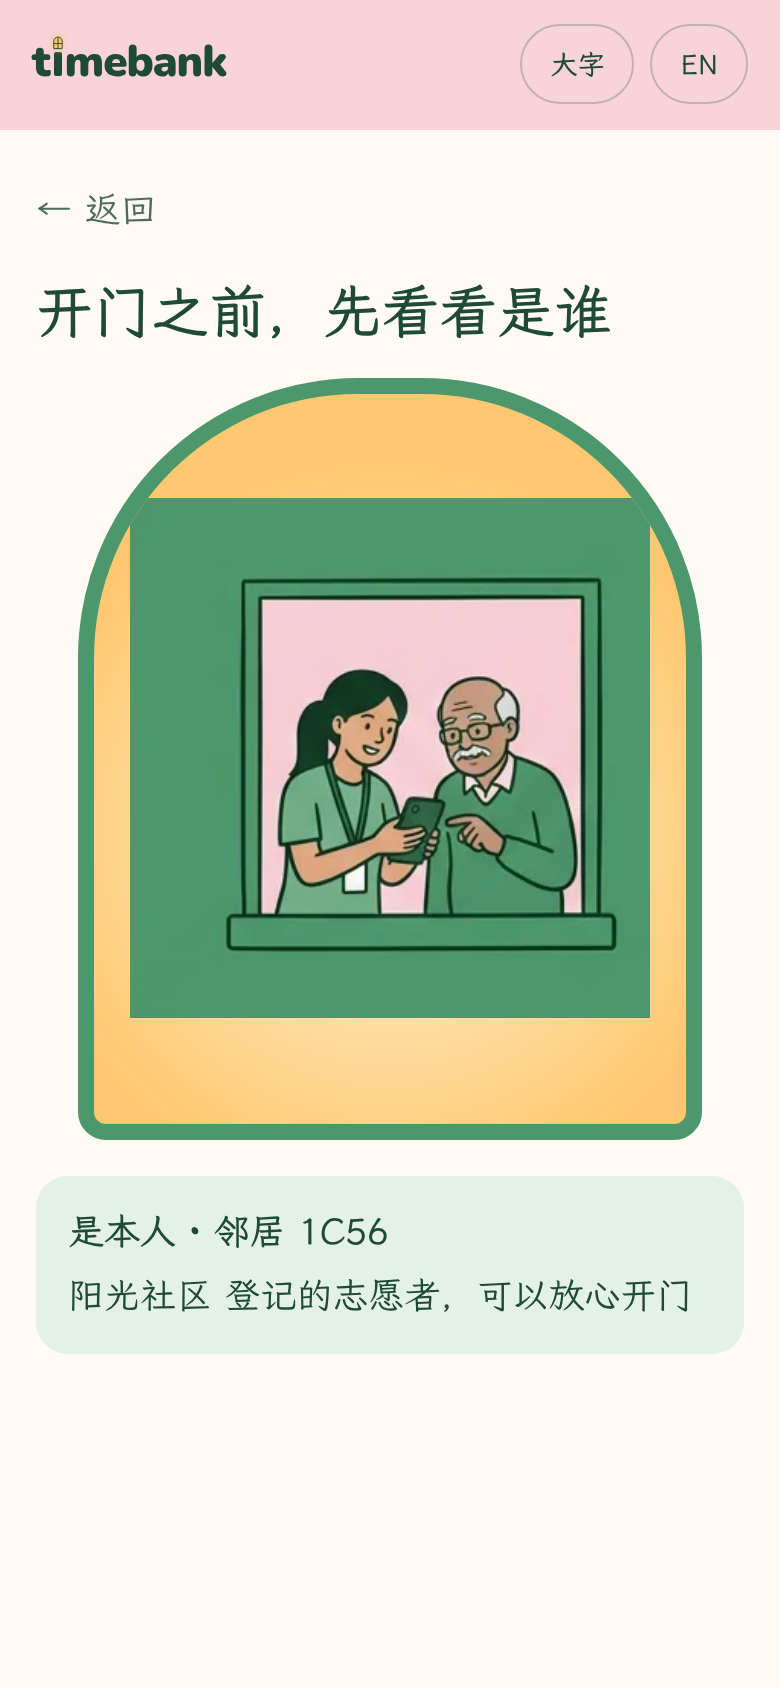
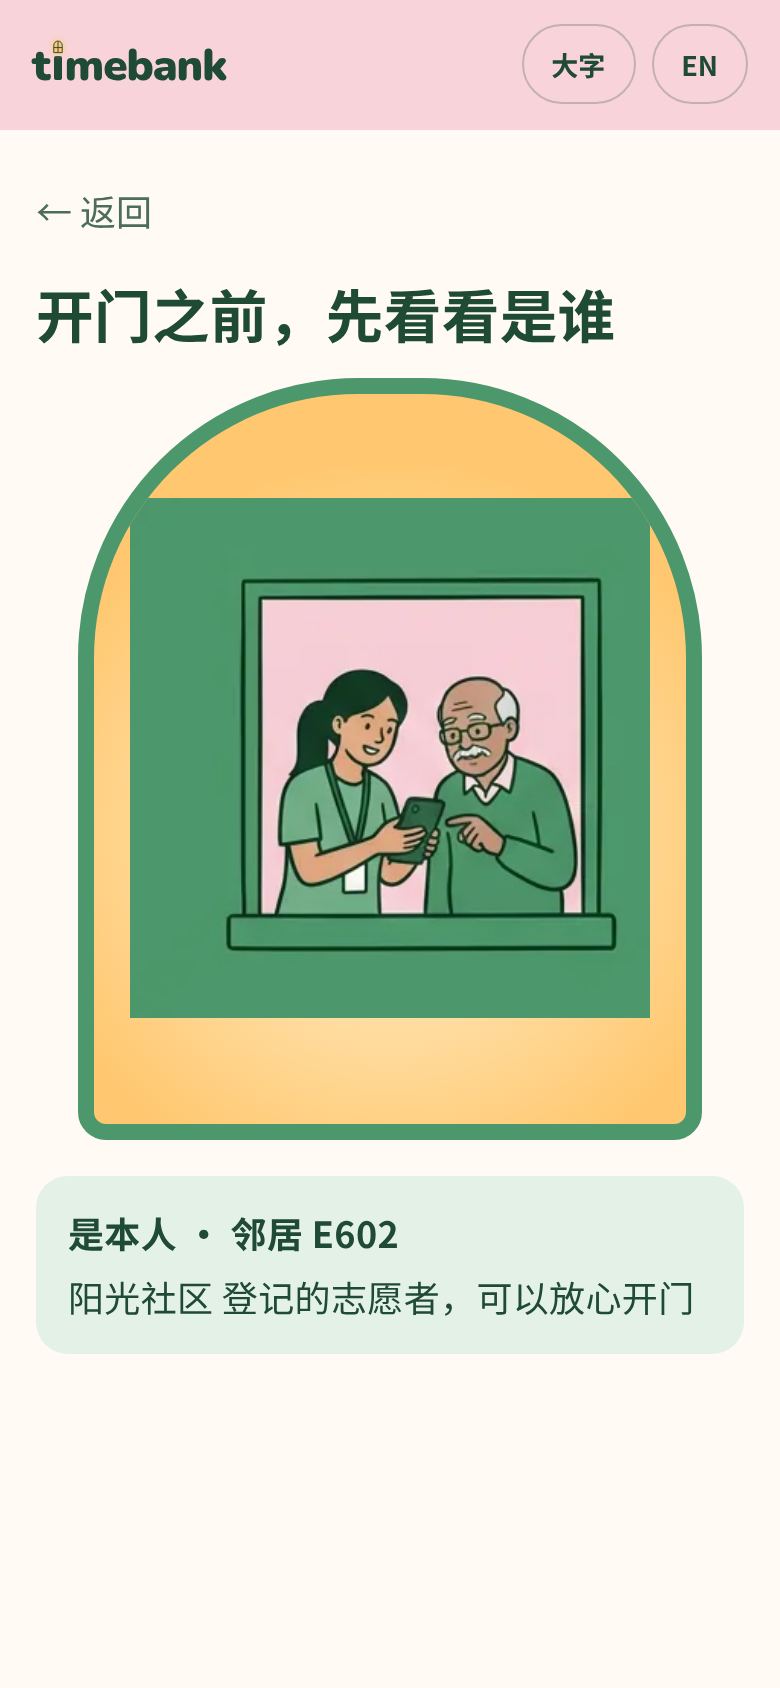
web: airier mobile home, desktop two-pane web layout, PingFang/Noto Sans SC for Chinese
Claude-Session: https://claude.ai/code/session_01Qt3ULjZtPdDuJeN1gVecLa

diff --git a/web/src/styles.css b/web/src/styles.css
@@ -42,11 +42,12 @@ body {
   color: var(--ink);
   font-size: var(--base);
   line-height: 1.6;
-  font-family: "Nunito", "LXGW WenKai", system-ui, sans-serif;
+  font-family: "Nunito", "PingFang SC", "HarmonyOS Sans SC", "MiSans", "Noto Sans SC", "Microsoft YaHei", system-ui, sans-serif;
   -webkit-text-size-adjust: 100%;
 }
 html:lang(zh) body {
-  font-family: "LXGW WenKai", "Nunito", system-ui, sans-serif;
+  font-family: "PingFang SC", "HarmonyOS Sans SC", "MiSans", "Noto Sans SC", "Nunito", "Microsoft YaHei", system-ui, sans-serif;
+  letter-spacing: 0.01em;
 }
 .wordmark,
 .wordmark * {
@@ -174,11 +175,11 @@ button {
 .home {
   min-height: calc(100vh - 60px);
   background: var(--wall);
-  padding-bottom: 150px;
+  padding-bottom: 120px;
 }
 .sky {
   background: var(--sky);
-  padding: 12px 22px 26px;
+  padding: 16px 24px 28px;
   color: var(--ink);
 }
 :root[data-phase="day"] .sky {
@@ -236,48 +237,38 @@ button {
 }
 .facade-grid {
   display: grid;
-  grid-template-columns: repeat(3, 1fr);
-  gap: 0;
-  padding: 0 4px;
+  grid-template-columns: repeat(2, 1fr);
+  gap: 4px 18px;
+  padding: 6px 22px 0;
   max-width: 560px;
   margin: 0 auto;
 }
+/* On phones the two main actions float at the bottom, in reach of the thumb. */
 .dock {
   position: fixed;
-  left: 12px;
-  right: 12px;
-  bottom: max(14px, env(safe-area-inset-bottom));
+  left: 16px;
+  right: 16px;
+  bottom: max(16px, env(safe-area-inset-bottom));
   z-index: 4;
-  max-width: 560px;
+  max-width: 520px;
   margin: 0 auto;
   display: grid;
-  grid-template-columns: 1fr 1fr 1fr;
-  gap: 8px;
-  padding: 12px;
-  border-radius: 26px;
-  background: color-mix(in srgb, var(--paper) 88%, transparent);
+  grid-template-columns: 1fr 1fr;
+  gap: 10px;
+  padding: 10px;
+  border-radius: 24px;
+  background: color-mix(in srgb, var(--paper) 90%, transparent);
   backdrop-filter: blur(14px);
   box-shadow: 0 16px 40px -18px rgba(0, 0, 0, 0.45);
 }
-.dock-balance {
-  grid-column: 1 / -1;
-  display: flex;
-  justify-content: space-between;
-  align-items: baseline;
-  padding: 0 6px 4px;
-}
-.dock-balance small {
-  opacity: 0.75;
-}
 .dock-btn {
   min-height: 56px;
-  border-radius: 18px;
-  border: 1.5px solid color-mix(in srgb, var(--ink) 25%, transparent);
+  border-radius: 16px;
+  border: 1.5px solid color-mix(in srgb, var(--ink) 22%, transparent);
   background: transparent;
+  color: var(--ink);
   font-weight: 700;
-  font-size: 0.85rem;
-  line-height: 1.25;
-  padding: 6px;
+  font-size: 0.95rem;
   cursor: pointer;
 }
 .dock-btn.main {
@@ -285,8 +276,108 @@ button {
   color: var(--paper);
   border-color: var(--ink);
 }
-.dock-btn:disabled {
-  opacity: 0.4;
+.sky-meta {
+  display: flex;
+  justify-content: space-between;
+  align-items: center;
+  gap: 12px;
+  margin-top: 14px;
+  font-size: 0.9rem;
+}
+.sky-meta .link {
+  padding: 0;
+  min-height: 0;
+  font-size: 0.85rem;
+}
+
+/* ---------- desktop / web ---------- */
+@media (min-width: 900px) {
+  .topbar {
+    padding-left: max(32px, calc((100vw - 1200px) / 2));
+    padding-right: max(32px, calc((100vw - 1200px) / 2));
+  }
+  .home {
+    display: grid;
+    grid-template-columns: minmax(320px, 400px) 1fr;
+    gap: 48px;
+    max-width: 1200px;
+    margin: 0 auto;
+    padding: 40px 32px 64px;
+    background: transparent;
+    min-height: auto;
+  }
+  html:has(.home),
+  body:has(.home) {
+    background: var(--sky);
+  }
+  .sky {
+    position: sticky;
+    top: 96px;
+    align-self: start;
+    padding: 8px 0;
+    background: transparent !important;
+  }
+  .headline b {
+    font-size: 5.5rem;
+  }
+  .dock {
+    position: static;
+    margin: 28px 0 0;
+    max-width: none;
+    background: transparent;
+    backdrop-filter: none;
+    box-shadow: none;
+    padding: 0;
+    grid-template-columns: 1fr;
+  }
+  .facade {
+    border-radius: 28px;
+    overflow: hidden;
+    box-shadow: 0 30px 60px -40px rgba(0, 0, 0, 0.5);
+    padding-bottom: 24px;
+  }
+  .facade-grid {
+    grid-template-columns: repeat(4, 1fr);
+    gap: 8px 16px;
+    padding: 8px 28px;
+    max-width: none;
+  }
+  .screen {
+    padding-top: 48px;
+  }
+  .overlay {
+    align-items: center;
+  }
+  .window-detail {
+    border-radius: 28px;
+    padding-top: 28px;
+  }
+  .window-detail .tile-wrap {
+    margin-top: 0;
+  }
+  .onboarding {
+    flex-direction: row;
+    max-width: 1100px;
+    align-items: center;
+    gap: 48px;
+    padding: 40px 32px;
+    flex-wrap: wrap;
+  }
+  .onb-art {
+    flex: 1 1 480px;
+    height: 70vh;
+    border-radius: 32px;
+  }
+  .onb-copy {
+    flex: 1 1 360px;
+  }
+  .onb-copy h1 {
+    font-size: 2.4rem;
+  }
+  .onb-foot {
+    flex-basis: 100%;
+    margin-top: 0;
+  }
 }
 
 /* ---------- generic screens ---------- */

diff --git a/web/src/App.tsx b/web/src/App.tsx
@@ -159,7 +159,8 @@ function Home({ s, lang, phase, me }: Ctx & { me: Me }) {
   }, [me.id]);
 
   const given = seals.filter((x) => x.helper === me.id).reduce((sum, x) => sum + x.minutes, 0);
-  const total = Math.max(9, Math.ceil((seals.length + 1) / 3) * 3);
+  // A multiple of 4 fills both the 2-column phone layout and the 4-column desktop layout.
+  const total = Math.max(8, Math.ceil((seals.length + 1) / 4) * 4);
   const unlit = total - seals.length - 1;
 
   return (
@@ -176,6 +177,18 @@ function Home({ s, lang, phase, me }: Ctx & { me: Me }) {
             <small>{s.litSub}</small>
           </span>
         </div>
+        <div className="sky-meta">
+          <span>
+            {s.available} <strong>{member ? formatMinutes(member.balance, s) : "…"}</strong>
+          </span>
+          {!!member?.balance && (
+            <button className="link" onClick={() => go("/donate")}>{s.donate}</button>
+          )}
+        </div>
+        <nav className="dock">
+          <button className="dock-btn main" onClick={() => go("/code")}>{s.myCode}</button>
+          <button className="dock-btn" onClick={() => go("/door")}>{s.door}</button>
+        </nav>
       </header>
       <Facade>
         <WindowTile phase={phase} tile={TILE.you} label={s.yourWindow} onClick={() => go("/code")} />
@@ -192,15 +205,6 @@ function Home({ s, lang, phase, me }: Ctx & { me: Me }) {
           <WindowTile key={`u${i}`} phase={phase} tile={TILE.unlit[i % 2]} lit={false} />
         ))}
       </Facade>
-      <nav className="dock">
-        <div className="dock-balance">
-          <small>{s.available}</small>
-          <b>{member ? formatMinutes(member.balance, s) : "…"}</b>
-        </div>
-        <button className="dock-btn main" onClick={() => go("/code")}>{s.myCode}</button>
-        <button className="dock-btn" onClick={() => go("/door")}>{s.door}</button>
-        <button className="dock-btn" onClick={() => go("/donate")} disabled={!member?.balance}>{s.donate}</button>
-      </nav>
       {open && (
         <div className="overlay" onClick={() => setOpen(null)}>
           <div className="sheet window-detail" onClick={(e) => e.stopPropagation()}>

diff --git a/web/src/main.tsx b/web/src/main.tsx
@@ -2,8 +2,8 @@ import { StrictMode } from "react";
 import { createRoot } from "react-dom/client";
 import "@fontsource/nunito/700.css";
 import "@fontsource/nunito/900.css";
-import "lxgw-wenkai-webfont/lxgwwenkai-regular.css";
-import "lxgw-wenkai-webfont/lxgwwenkai-bold.css";
+import "@fontsource/noto-sans-sc/400.css";
+import "@fontsource/noto-sans-sc/700.css";
 import App from "./App";
 import "./styles.css";
 
